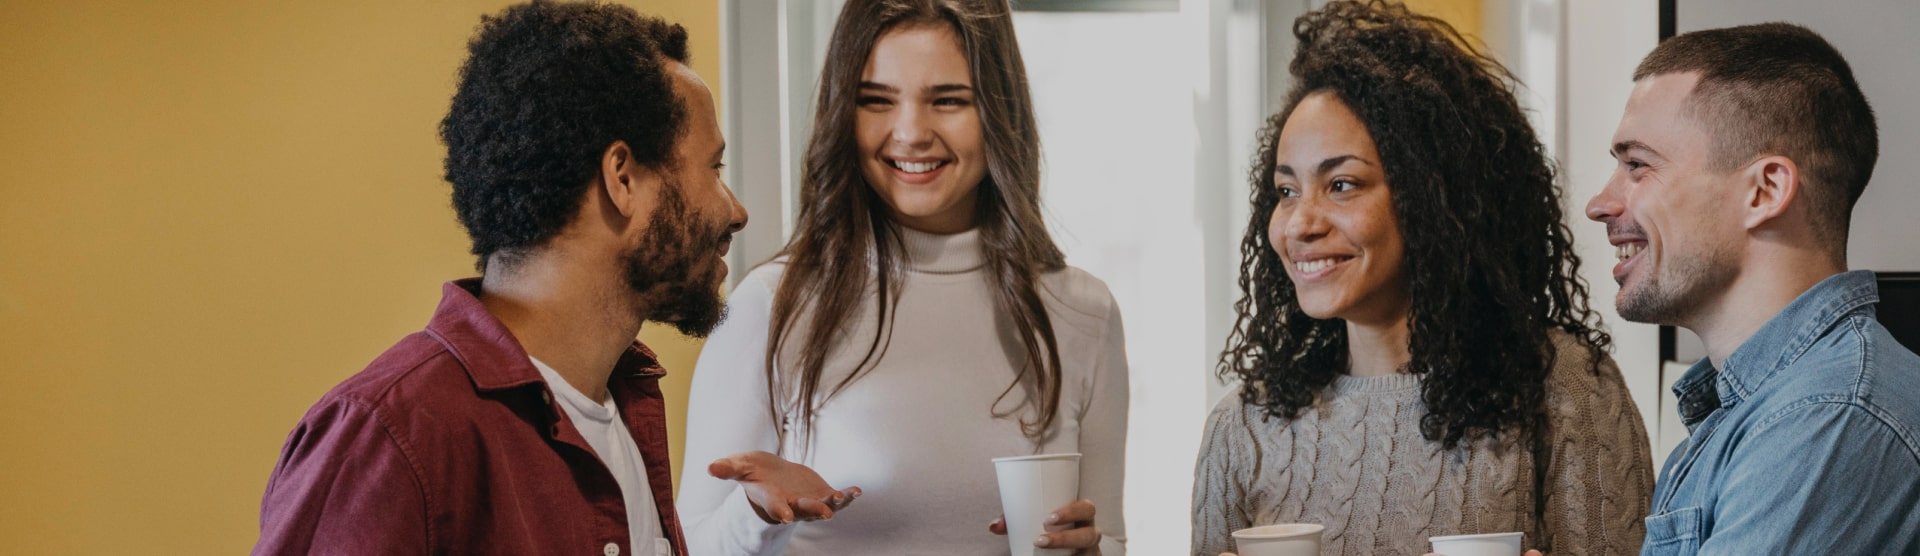
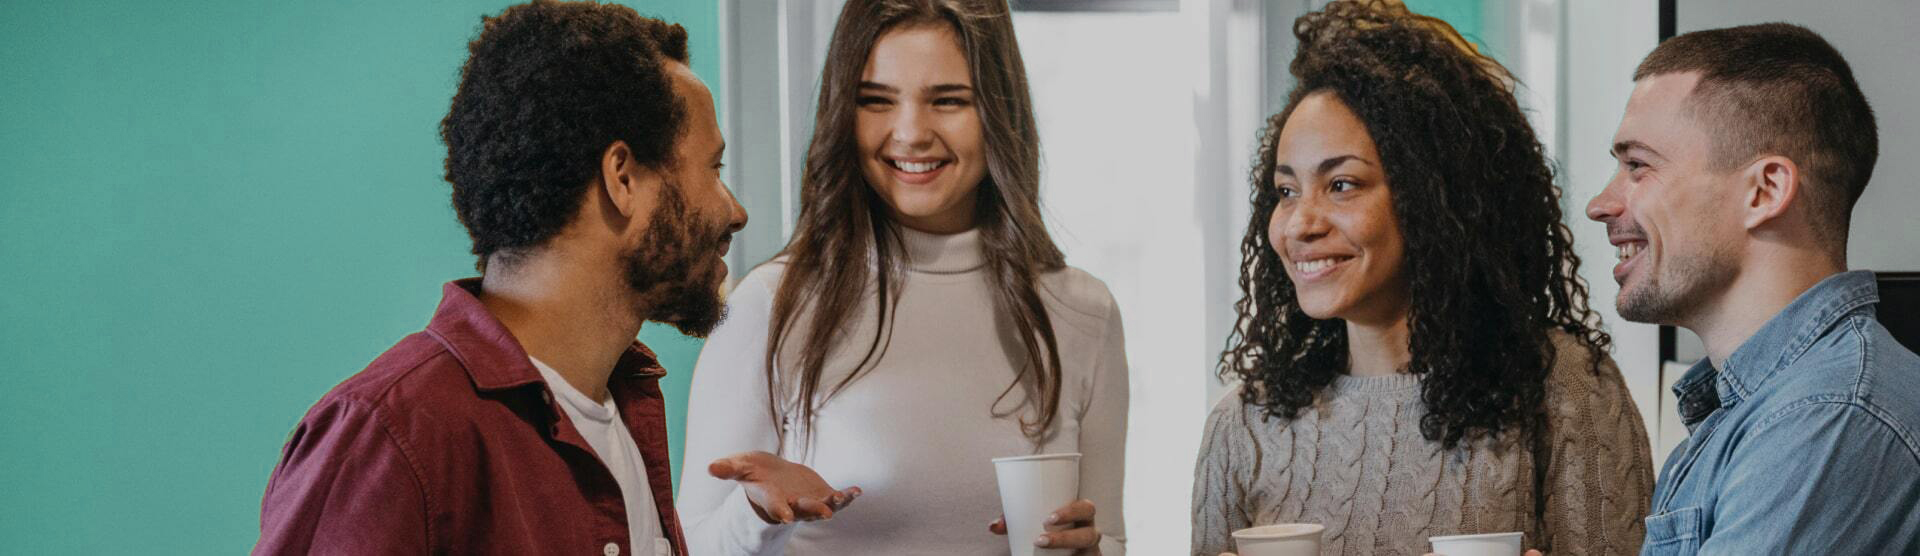
faq padding add and namebanner img change

diff --git a/app/components/services/FAQ.jsx b/app/components/services/FAQ.jsx
@@ -58,7 +58,7 @@ const FAQ = ({ faqs }) => {
                     role="region"
                     aria-labelledby={`faq-question-${i}`}
                   >
-                    <div className="pb-6 -mt-1 text-gray-600 text-sm leading-relaxed">
+                    <div className="pb-6 pt-3 text-gray-600 text-sm leading-relaxed">
                       {f.a}
                     </div>
                   </motion.div>
